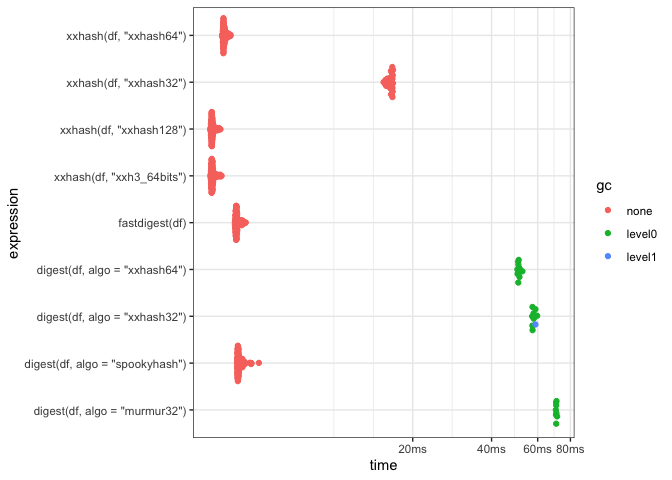
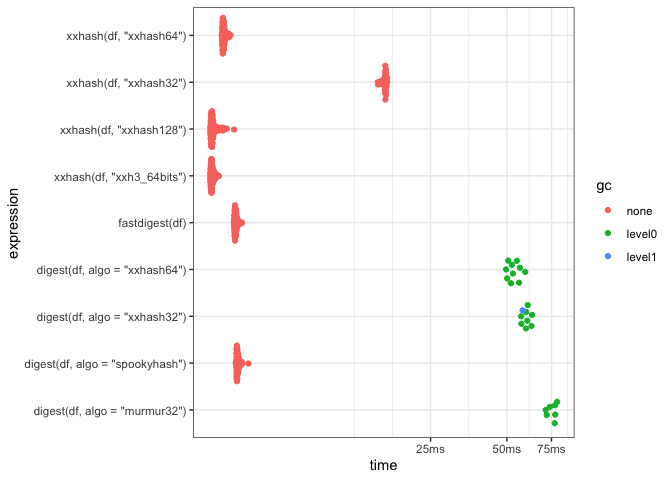
xxhash_raw() now accepts strings

diff --git a/src/R-xxhash.c b/src/R-xxhash.c
@@ -210,10 +210,18 @@ SEXP xxhash_raw_(SEXP robj_, SEXP algo_, SEXP seed_) {
   
   void *src;
   size_t len;
+  char *tmp;
   
   if (TYPEOF(robj_) == RAWSXP) {
     src = (void *)RAW(robj_);
     len = (size_t)length(robj_);
+  } else if (TYPEOF(robj_) == STRSXP) {
+    if (length(robj_) != 1) {
+      error("xxhash_raw() character arguments must only be length-1");
+    }
+    tmp = (char *)CHAR(STRING_ELT(robj_, 0));
+    src = (void *)tmp;
+    len = strlen(tmp);
   } else {
     error("xxhash_raw_(): only raw vectors supported");
   }

diff --git a/README.md b/README.md
@@ -25,11 +25,16 @@ hash functions, `xxh3_64bits` and `xxhash128`, are considered stable.
 
 ## ToDo
 
-- `xxhash_raw()` should accept strings
 - `xxhash_file()` use streaming interface to hash incrementally
 - Skip first 18+n bytes when serializing - this is all very speific
   information like R_VERSION number which would change on every minor
   version bump. See `rlang::hash()` implementation for details.
+- `xxhash_raw()`: use the `_with_seed()` variants of `XXH3_128bits()`
+  and `XXH3_128bits()`
+- `xxhash()`: expose the `seed` as an argument
+- rename algorithms to:
+  - `xxh32`, `xxh64`
+  - `xxh3-64`, `xxh3-128`
 
 ## Notes
 
@@ -137,15 +142,15 @@ res <- bench::mark(
 
 | package    | expression                      |  median | itr/sec |    MB/s |
 |:-----------|:--------------------------------|--------:|--------:|--------:|
-| xxhashlite | xxhash(df, “xxhash32”)          | 16.53ms |      61 |  3462.4 |
-| xxhashlite | xxhash(df, “xxhash64”)          |  3.81ms |     261 | 15037.0 |
-| xxhashlite | xxhash(df, “xxhash128”)         |  3.42ms |     290 | 16705.8 |
-| xxhashlite | xxhash(df, “xxh3_64bits”)       |  3.43ms |     290 | 16676.3 |
-| digest     | digest(df, algo = “xxhash32”)   | 57.82ms |      17 |   989.6 |
-| digest     | digest(df, algo = “xxhash64”)   | 50.67ms |      20 |  1129.3 |
-| digest     | digest(df, algo = “murmur32”)   | 70.62ms |      14 |   810.3 |
-| digest     | digest(df, algo = “spookyhash”) |  4.32ms |     228 | 13234.3 |
-| fastdigest | fastdigest(df)                  |  4.25ms |     233 | 13457.4 |
+| xxhashlite | xxhash(df, “xxhash32”)          | 16.58ms |      61 |  3451.8 |
+| xxhashlite | xxhash(df, “xxhash64”)          |  3.81ms |     261 | 15010.0 |
+| xxhashlite | xxhash(df, “xxhash128”)         |  3.44ms |     286 | 16633.5 |
+| xxhashlite | xxhash(df, “xxh3_64bits”)       |  3.43ms |     290 | 16691.0 |
+| digest     | digest(df, algo = “xxhash32”)   | 59.53ms |      17 |   961.1 |
+| digest     | digest(df, algo = “xxhash64”)   | 52.57ms |      19 |  1088.5 |
+| digest     | digest(df, algo = “murmur32”)   | 77.23ms |      13 |   740.9 |
+| digest     | digest(df, algo = “spookyhash”) |  4.32ms |     231 | 13254.3 |
+| fastdigest | fastdigest(df)                  |  4.25ms |     235 | 13465.2 |
 
 Hashing a simple data.frame
 
